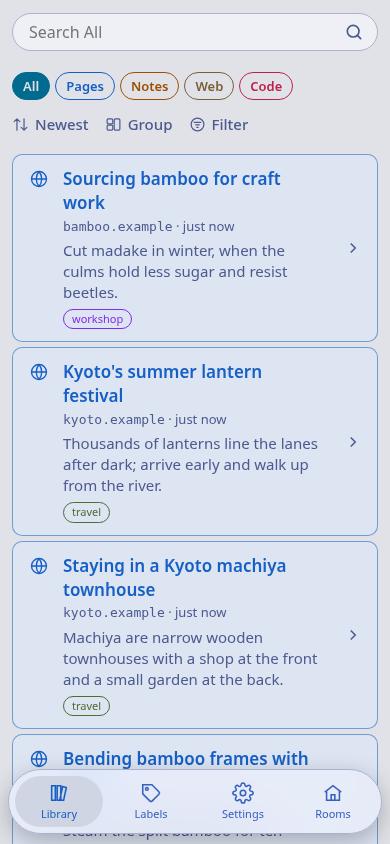
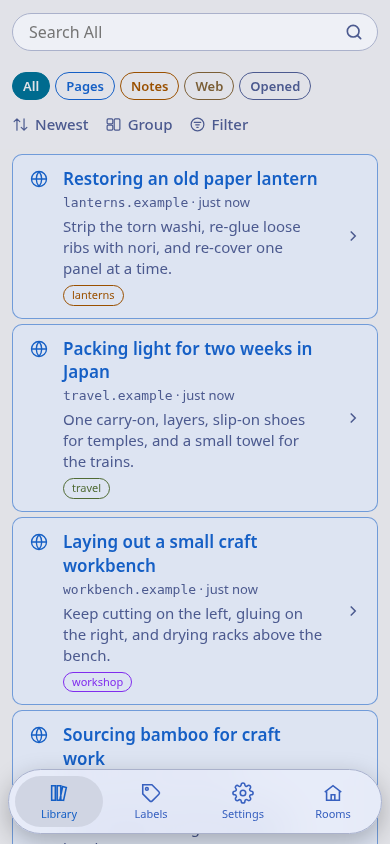
README: Shiori first, Machiya's apps linked, screenshots retaken on 1.12.1
The opening now says what Shiori searches, then that it's one of
Machiya's apps beside Kura, Konbini and Niwa. Before, it opened with
Machiya, as if Machiya did the searching. Machiya's apps and services
are linked where each first appears, here and in docs/features.md.
The Settings caption reads "Customize with themes and views".

The seven web shots are retaken with tools/screenshots on 1.12.1,
sample data only, backgrounds off. Settings now opens on its page
index (1.9.0), so its alt text names those pages.

diff --git a/README.md b/README.md
@@ -1,8 +1,8 @@
 # Shiori
 
-[Machiya](https://github.com/machiya-kobo/machiya) is a set of small self-hosted apps for finding what you've read: your pages ([Hister](https://github.com/asciimoo/hister)), the web ([SearXNG](https://github.com/searxng/searxng)), your notes ([Obsidian](https://obsidian.md)) and your code ([Forgejo](https://forgejo.org) or [GitHub](https://github.com)).
+Shiori (栞, bookmark) searches everything you've read: your pages ([Hister](https://github.com/asciimoo/hister)), the web ([SearXNG](https://github.com/searxng/searxng)), your notes ([Obsidian](https://obsidian.md)) and your code ([Forgejo](https://forgejo.org) or [GitHub](https://github.com)), from an iPhone, iPad, Mac, Linux, Haiku, a Classic Macintosh or the web. It's also a Hister extension for Safari on macOS and iOS, built on Hister's own and on Nick Burns's [hister-safari](https://github.com/nburns/hister-safari). Hister's [official extensions](https://hister.org/docs/browser-extension) also work.
 
-Shiori (栞, bookmark) is Machiya's search app. Search Hister and SearXNG from an iPhone, iPad, Mac, Linux, Haiku, a Classic Macintosh or the web. It's also a Hister extension for Safari on macOS and iOS, built on Hister's own and on Nick Burns's [hister-safari](https://github.com/nburns/hister-safari). Hister's [official extensions](https://hister.org/docs/browser-extension) also work.
+Shiori is one of [Machiya](https://github.com/machiya-kobo/machiya)'s small self-hosted apps, which share one vault of notes: [Kura](https://github.com/machiya-kobo/kura) to read them, [Konbini](https://github.com/machiya-kobo/konbini) for your projects and [Niwa](https://github.com/machiya-kobo/niwa) for your digital garden.
 
 Agentically coded with [Claude Code](https://docs.anthropic.com/en/docs/claude-code).
 
@@ -16,7 +16,7 @@ Agentically coded with [Claude Code](https://docs.anthropic.com/en/docs/claude-c
   <tr>
     <td align="center" width="33%"><a href="docs/screenshots/shiori-library-light.png"><img src="docs/screenshots/shiori-library-light.png" alt="The Library, light theme: collections and labels, pages newest first, one open in the preview" width="100%"></a><br>Browse your library</td>
     <td align="center" width="33%"><a href="docs/screenshots/shiori-notes-light.png"><img src="docs/screenshots/shiori-notes-light.png" alt="Notes, light theme: notes from Kura by folder, one open in the preview" width="100%"></a><br>Read your notes</td>
-    <td align="center" width="33%"><a href="docs/screenshots/shiori-settings-dark.png"><img src="docs/screenshots/shiori-settings-dark.png" alt="Settings, dark theme: theme, mode, text size and views" width="100%"></a><br>Pick a theme and your views</td>
+    <td align="center" width="33%"><a href="docs/screenshots/shiori-settings-dark.png"><img src="docs/screenshots/shiori-settings-dark.png" alt="Settings, dark theme: Appearance, Search, Results, Data and Account" width="100%"></a><br>Customize with themes and views</td>
   </tr>
 </table>
 
@@ -30,7 +30,7 @@ Agentically coded with [Claude Code](https://docs.anthropic.com/en/docs/claude-c
 
 - **Search your pages** with Hister's query syntax and completions. Filter by date, site, visits, language and type. What you open ranks first next time.
 - **Search your notes** in your Obsidian vault, through Kura. A note opens in Obsidian, its Konbini card a tap away.
-- **Search the World Wide Web** through your [SearXNG](https://github.com/searxng/searxng), your own pages mixed in, and Gemini and Gopher through a small-web gateway.
+- **Search the World Wide Web** through your [SearXNG](https://github.com/searxng/searxng), your own pages mixed in, and Gemini and Gopher through a [small-web gateway](https://github.com/machiya-kobo/machiya/tree/main/stack/smallweb).
 - **Search your code**: repos, issues, pull requests and releases from Forgejo and GitHub, imported into Hister.
 - **Search your media**: your Jellyfin and Plex libraries and what you played from Koito and Movary, saying when you last played each and your rating.
 - **Search your files**: the folders Hister watches ([local directory indexing](https://hister.org/docs/configuration#local-directory-indexing)).
@@ -79,14 +79,14 @@ Each extra is its own app with a public image on ghcr.io/machiya-kobo. Run it, t
 |---|---|---|
 | Your Obsidian notes | Kura, on your vault | `SHIORI_KURA_URL` (and Shiori's name for Kura in Kura's `KURA_ALLOWED_HOSTS`) |
 | Your projects | Konbini, on the same vault | `SHIORI_KONBINI_URL` |
-| Your code on Forgejo or GitHub | code-import, which copies your repos into Hister | nothing: the Code tab appears |
+| Your code on Forgejo or GitHub | [code-import](https://github.com/machiya-kobo/machiya/blob/main/docs/services/code-import.md), which copies your repos into Hister | nothing: the Code tab appears |
 | The small web (Gemini, Gopher) | smallweb | `SHIORI_SMALLWEB_URL` |
 
 | To get | Run | Then set on Shiori |
 |---|---|---|
-| Subscribe to a search as RSS | shiori-feed | `SHIORI_FEED_URL` |
-| AI Answer and Summarize | shiori-ai, with an Anthropic API key | `SHIORI_AI_URL` |
-| One sign-in for every app | hister-login | `SHIORI_LOGIN_URL` |
+| Subscribe to a search as RSS | [shiori-feed](https://github.com/machiya-kobo/machiya/blob/main/docs/services/shiori-feed.md) | `SHIORI_FEED_URL` |
+| AI Answer and Summarize | [shiori-ai](https://github.com/machiya-kobo/machiya/blob/main/docs/services/shiori-ai.md), with an Anthropic API key | `SHIORI_AI_URL` |
+| One sign-in for every app | [hister-login](https://github.com/machiya-kobo/machiya/blob/main/docs/services/hister-login.md) | `SHIORI_LOGIN_URL` |
 
 For Media, point Shiori at your own Jellyfin, Plex, Koito or Movary, each with a token of its own ([docs/media.md](docs/media.md)).
 

diff --git a/docs/features.md b/docs/features.md
@@ -5,10 +5,10 @@ What Shiori does on iPhone, iPad, Mac and the web app. The Linux app is the web 
 ## Searching and reading
 
 - **Search your pages** with Hister's query syntax, completions included. Filter by date, site, visits, language and type.
-- **Search your notes**: your Obsidian vault, through Kura. A note opens in Obsidian, its Kura page and Konbini card a tap away.
+- **Search your notes**: your Obsidian vault, through [Kura](https://github.com/machiya-kobo/kura). A note opens in Obsidian, its Kura page and [Konbini](https://github.com/machiya-kobo/konbini) card a tap away.
 - **Search the World Wide Web** through your [SearXNG](https://github.com/searxng/searxng), your own pages mixed in (one the web also found is a single entry) and the ones you've visited marked.
-- **Search Gemini and Gopher** through a small-web gateway.
-- **Search your code** in the Code view: repos, READMEs, docs, issues, pull requests and releases imported into Hister. Filter by kind, forge, open or private; each opens at its forge.
+- **Search Gemini and Gopher** through a [small-web gateway](https://github.com/machiya-kobo/machiya/tree/main/stack/smallweb).
+- **Search your code** in the Code view: repos, READMEs, docs, issues, pull requests and releases imported into Hister by Machiya's [code-import](https://github.com/machiya-kobo/machiya/blob/main/docs/services/code-import.md). Filter by kind, forge, open or private; each opens at its forge.
 - **Search your media** on the Media pill: your Jellyfin and Plex libraries and what you played from Koito and Movary, one card per item, saying when you played it ("Never Played", "Played 3× · Last Mar 6, 2014") with your rating. Filter by kind, never played and rating; before a search, what's playing, your top artists and albums, your watchlist and what's new ([media.md](media.md)).
 - **Search your files** in the Files view: the folders Hister watches ([local directory indexing](https://hister.org/docs/configuration#local-directory-indexing)), opened from Hister's copy.
 - **Browse** everything Hister holds, newest first, by label and collection (Hister's `@` aliases, like `@reading`), or by day and month.
@@ -38,4 +38,4 @@ Off by default, on-device first: Summarize, label suggestions, Label New Pages a
 
 Shiori talks only to the servers you configure: Hister and, if you set them, SearXNG, Kura, Konbini, a small-web gateway, the feed service and the media services (Jellyfin, Plex, Koito, Movary, with art from TMDB), plus the AI providers you switch on (Settings → AI, off by default). Safari's extension also fetches the favicons and PDFs of the sites you visit, as upstream's does. A file never goes to an AI, and code only to an on-device model. Switch off Settings → Results → Images in Previews and a preview loads nothing from elsewhere. No analytics.
 
-Shiori needs only a Hister. Kura (Machiya's notes app), Konbini (its project board), Niwa (its digital garden) and SearXNG are optional.
+Shiori needs only a Hister. Kura (Machiya's notes app), Konbini (its project board), [Niwa](https://github.com/machiya-kobo/niwa) (its digital garden) and SearXNG are optional.
